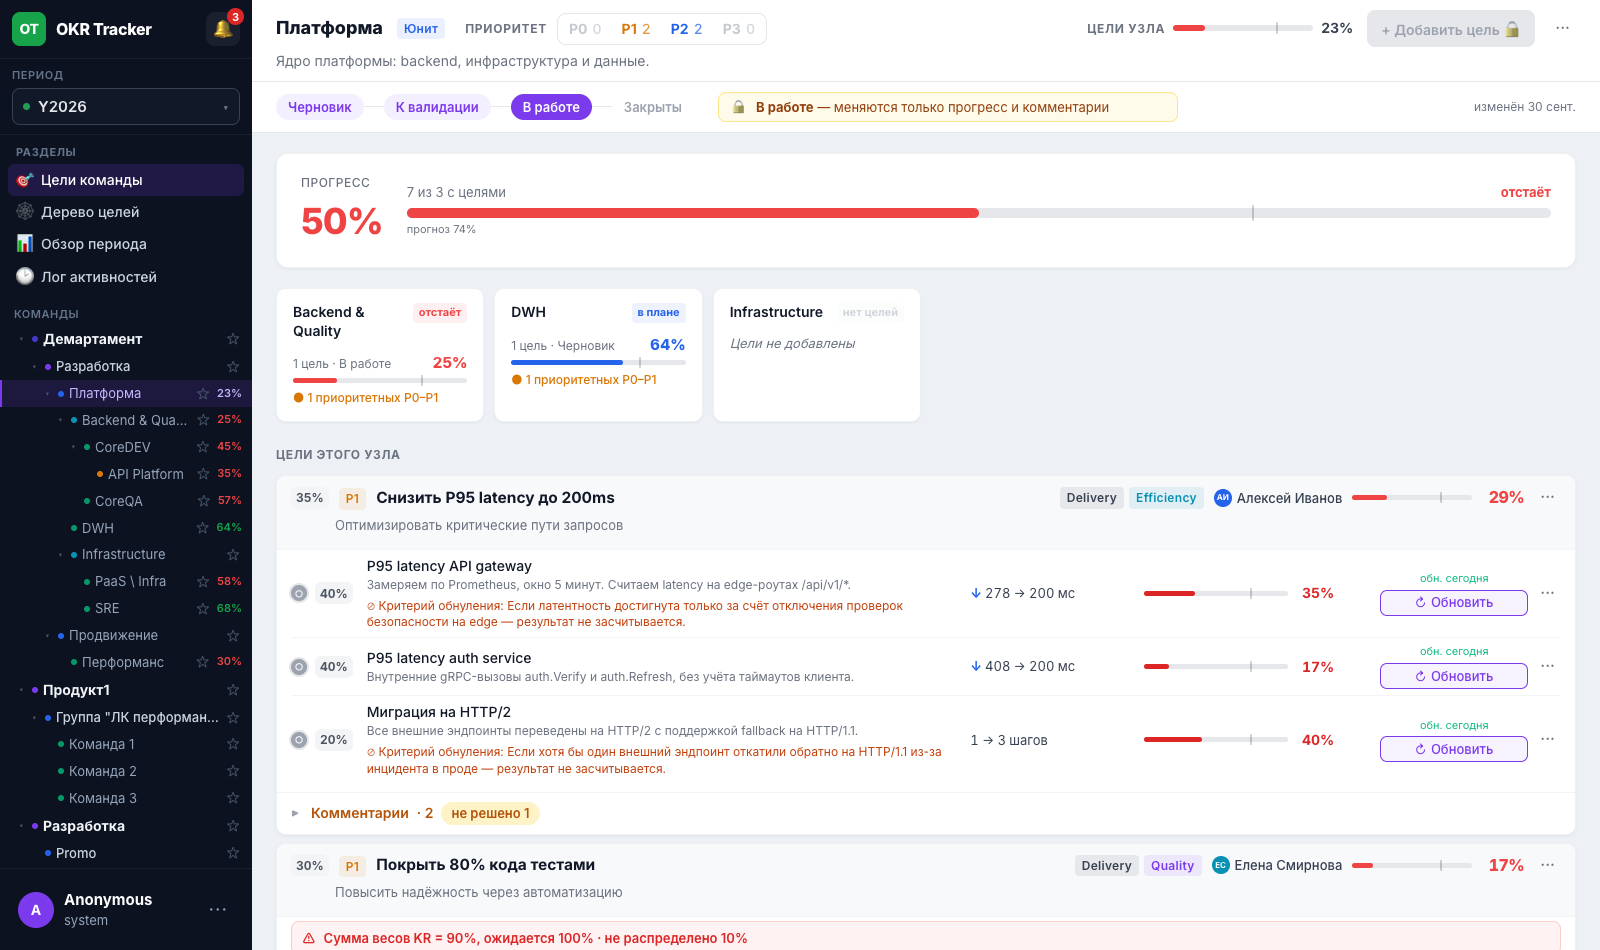
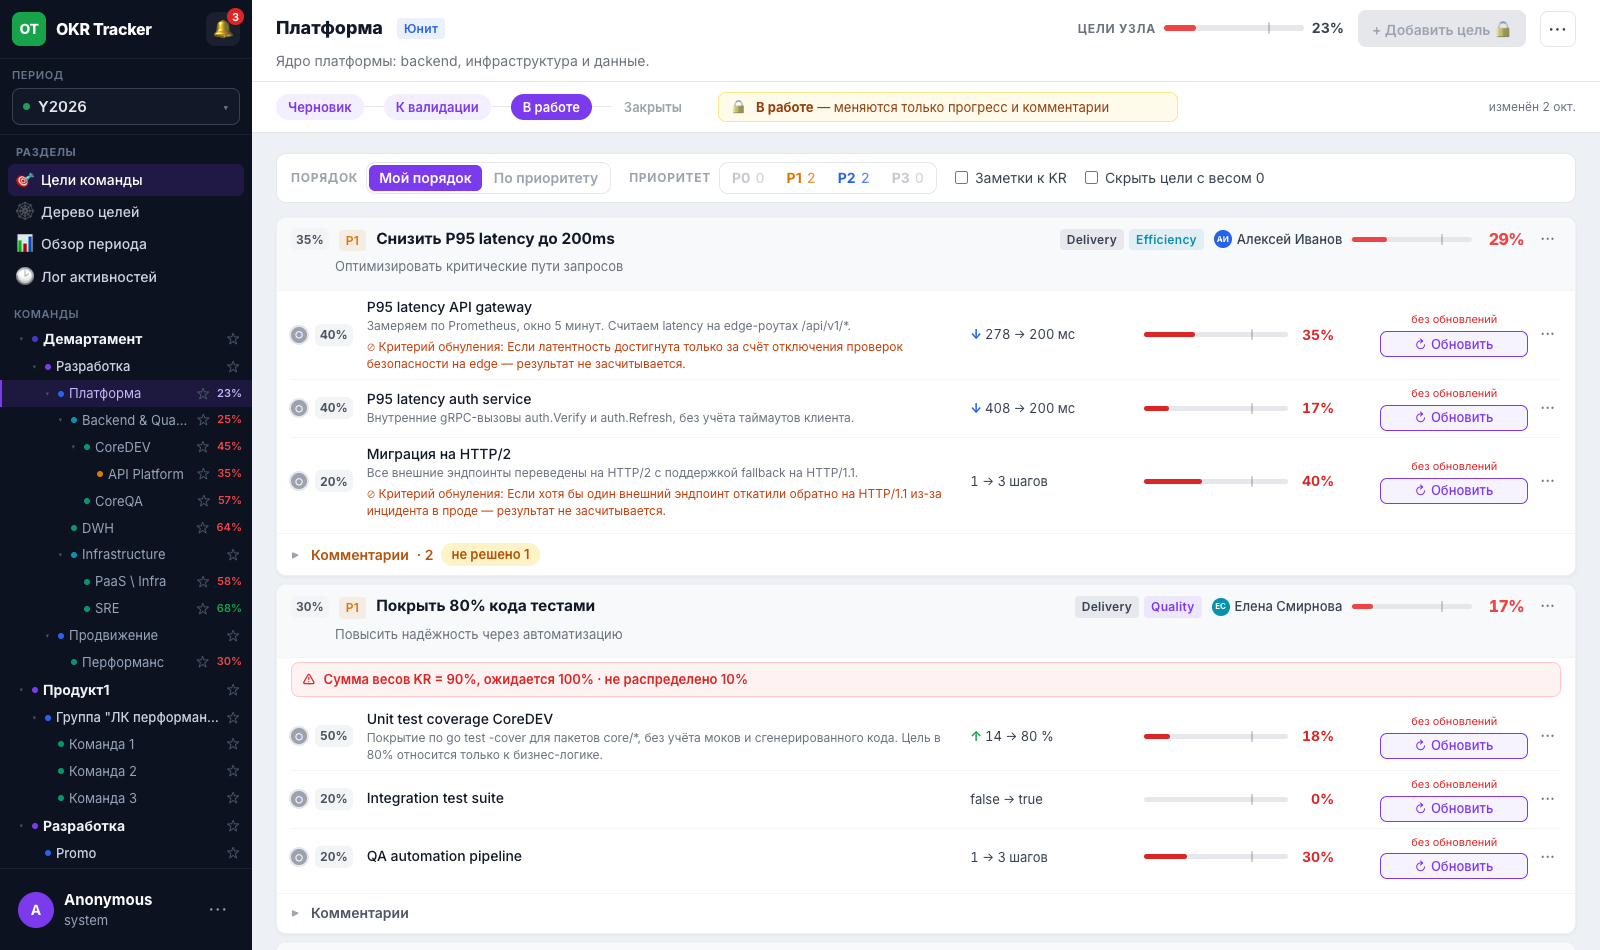
forgottens specs

diff --git a/README.md b/README.md
@@ -2,9 +2,9 @@
 
 OKR Tracker is a self-hosted web application for running OKRs in an organisation that plans as a
 tree — department, cluster, unit, group, team, squad. You pick a team and a period in the sidebar,
-and the right side shows that team's objectives, their key results, the discussion around them, and
-how the whole subtree underneath is doing. Climb one level up and the same screen becomes a roll-up
-of everything below it.
+and the right side shows that team's objectives, their key results and the discussion around them.
+The sidebar carries each node's progress, so the tree itself tells you how the teams below are
+doing; a board always belongs to one node and shows that node's own goals.
 
 It is a finished application rather than a kit to assemble: planning, check-ins, discussion,
 decomposition, notifications, export and administration are all part of it. What you deploy is one
@@ -17,7 +17,7 @@ there is no build step, no Node runtime and no separate API service to operate.
 
 ## Features
 
-- **[Team board](#team-board)** — a team in a period: status stepper, weighted objectives, forecast, and a roll-up card per child team.
+- **[Team board](#team-board)** — a team in a period: status stepper, weighted objectives and forecast.
 - **[Key results](#key-results)** — three kinds (numerical, boolean, project), each with its own check-in form, note and zeroing criteria.
 - **[Progress and forecast](#progress-and-forecast)** — goal progress is the weighted average of its KRs, team progress the weighted average of its goals, and a pace line says whether you are ahead or behind.
 - **[Shared goals](#shared-goals)** — one goal visible in several teams, each with its own weight and ordering. No copies to keep in sync.
@@ -116,7 +116,7 @@ Open <http://localhost:8080> and work through the quarter in the order it actual
    server-side and the board switches to check-ins and comments.
 6. **Keep it current.** *Обновить прогресс* on a KR opens the right form for its kind and records
    the new value, a health status and an optional note in one operation. Everything else — the
-   goal's percentage, the team's, the subtree's, the forecast marker — follows from that.
+   goal's percentage, the team's, the forecast marker — follows from that.
 7. **Close the quarter.** *Закрыты* leaves comments available and nothing else.
 
 Two places are worth a visit once you have data: **Обзор периода** shows a whole period across many
@@ -124,8 +124,8 @@ teams at once, and **Лог активностей** shows what changed and who 
 
 ## Screenshots
 
-**A unit's board** — its own goals, plus one card per child team with progress, status and the
-count of P0–P1 objectives.
+**A unit's board** — the status stepper and the unit's own weighted objectives. Child teams and
+their progress live in the sidebar tree, not on the board.
 
 ![Team board](docs/screenshots/tracker-board.png)
 
@@ -200,8 +200,10 @@ closes the pool.
 ### Team board
 
 The board is the main screen. Its header carries the team name, its type badge, the description its
-lead wrote, and the aggregate progress for the period. Below that is the status stepper, then —
-for a node with children — a roll-up card per child team, then the node's own goals.
+lead wrote, and its progress for the period. Below that is the status stepper, then the node's own
+goals. A node with children is no different: its board carries its goals and nothing about the
+teams beneath it — those are one click away in the sidebar, which shows each of them with its own
+progress.
 
 Each goal card shows priority (P0–P3), weight, work type (Delivery or Discovery), strategic focus,
 the driver, a progress bar with a forecast marker, and how recently it was touched. A goal shared
@@ -246,11 +248,14 @@ period no longer reads as a period where everything landed.
 
 ### Progress and forecast
 
-Everything rolls up by weight, with one rule used everywhere:
+Inside a team everything rolls up by weight:
 
 - goal progress = weighted average of its key results;
-- team progress in a period = weighted average of its goals;
-- a parent node's progress = the average across child teams that actually have goals.
+- team progress in a period = weighted average of its goals.
+
+Progress belongs to the node that owns the goals: a parent node shows its own goals' progress, not
+an average of the teams below it. To see how a subtree is doing, read the sidebar tree, which gives
+a percentage per node, or open **Обзор периода** for the whole period at once.
 
 Alongside the bar sits the **expected pace** — where you would be today if the period filled evenly
 — and progress is labelled against it: *ahead*, *on track* (within the tolerance), *below*, or

diff --git a/openspec/changes/remove-board-children-summary/tasks.md b/openspec/changes/remove-board-children-summary/tasks.md
@@ -88,17 +88,32 @@
   `./design-system/build.sh && ./design-system/prototype/build.sh`. Проверка: в `dist/` нет
   `components/child-cluster-cards.html` (32 карточки вместо 33), скрипт прототипа проходит
   `vm.Script`, ни одного вхождения удалённых классов в `design-system/src` и `design-system/dist`.
-- [ ] 6.2 Залить обновлённые карточки и прототип в проект Claude Design (id в
-  `design-system/README.md`). Проверка: в проекте нет карточки «Карточки команд», остальные
-  карточки на месте.
+- [ ] 6.2 Залить обновлённые карточки и прототип в проект Claude Design
+  (`12e552f0-1aaf-4d84-9013-9cef887d4dd2`). **Только вручную:** `/design-sync` зарезервирован за
+  явным вызовом пользователя и не может быть запущен агентом, обходить его через DesignSync нельзя.
+  Залить нужно пять изменённых карточек (`progress`, `foundations-surfaces`,
+  `foundations-typography`, `empty-states`, `prototype`) и удалить `child-cluster-cards`. Проверка:
+  в проекте нет карточки «Карточки команд», остальные карточки на месте.
 
 ## 7. Документация
 
 - [x] 7.1 Убрать из `docs/interface.md` пункт про cluster overview и ссылку на скриншот, удалить
   строку `cluster-overview.png` из `docs/images/README.md` и сам файл
-  `docs/images/cluster-overview.png`. Поправить в `README.md` описание доски родительского узла.
-  Проверка: `cluster overview|cluster-overview|roll-up` в `README.md` и `docs` (без
+  `docs/images/cluster-overview.png`. Проверка: `cluster overview|cluster-overview` в `docs` (без
   `docs/old_specs` и `docs/superpowers`) не встречается, ссылки на изображения не битые.
+- [x] 7.2 `README.md` описывал удалённый блок в шести местах, а не в одном (найдено на ревью).
+  Поправлены: вводный абзац, пункт списка возможностей, подпись к скриншоту доски, раздел «Team
+  board», перечисление в Quick start и правило роллапа прогресса. Последнее — отдельная находка:
+  «a parent node's progress = the average across child teams that actually have goals» описывало
+  `AverageProgress` из удалённой сводки, и после change такого правила в продукте нет нигде
+  (прогресс в дереве — только по собственным целям узла, см. requirement «Показатели узла в дереве
+  навигации»). Проверка: `roll-up|child team` в `README.md` не встречается, текст про subtree
+  остался только там, где он верен (экспорт, область видимости уведомлений).
+- [x] 7.3 Перегенерировать `docs/screenshots/tracker-board.png`: старый показывал плашку, сетку
+  карточек и заголовок «Цели этого узла». Снят тот же экран (Платформа, Y2026, 23 %) на
+  `seed_demo.sql` в изолированной БД, 1600×950 как у остальных скриншотов. Проверка: на новом
+  скриншоте блока нет, прогресс дочерних команд виден в дереве, ошибок в консоли нет. Остальные 12
+  скриншотов удалённый блок не показывают.
 
 ## 8. Итоговая проверка
 
